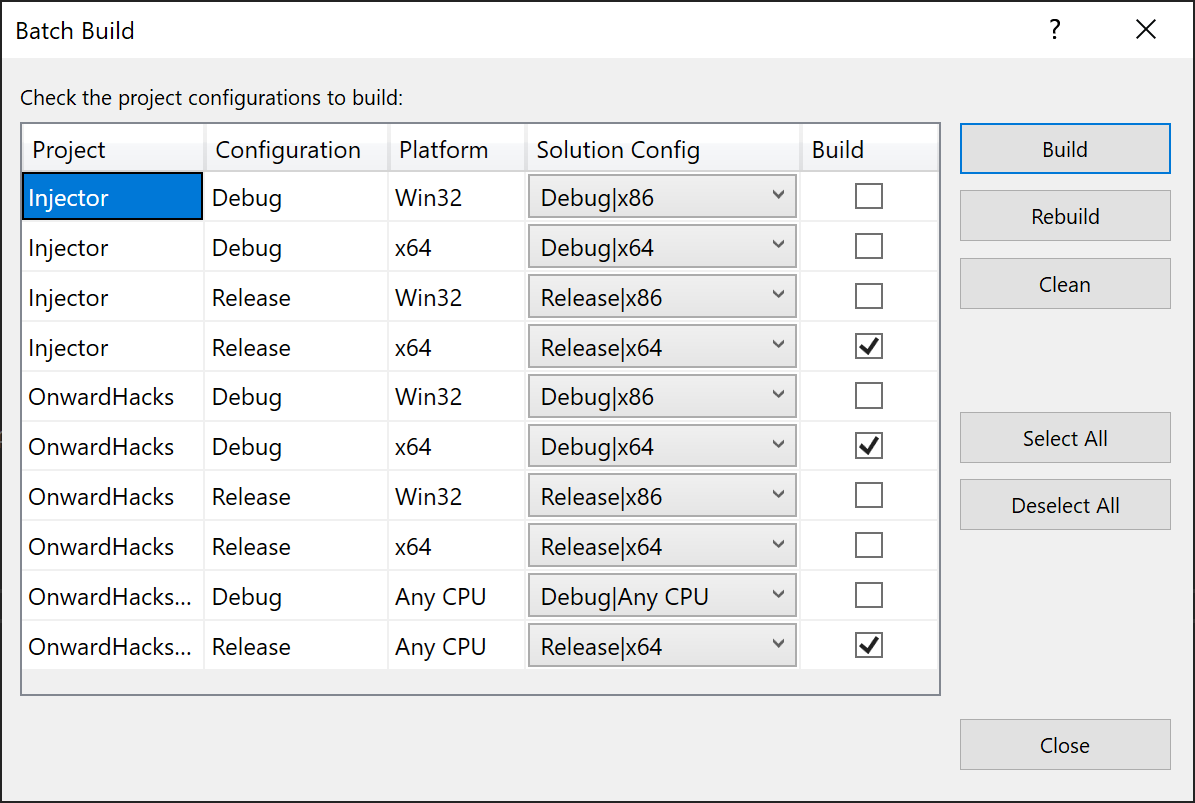
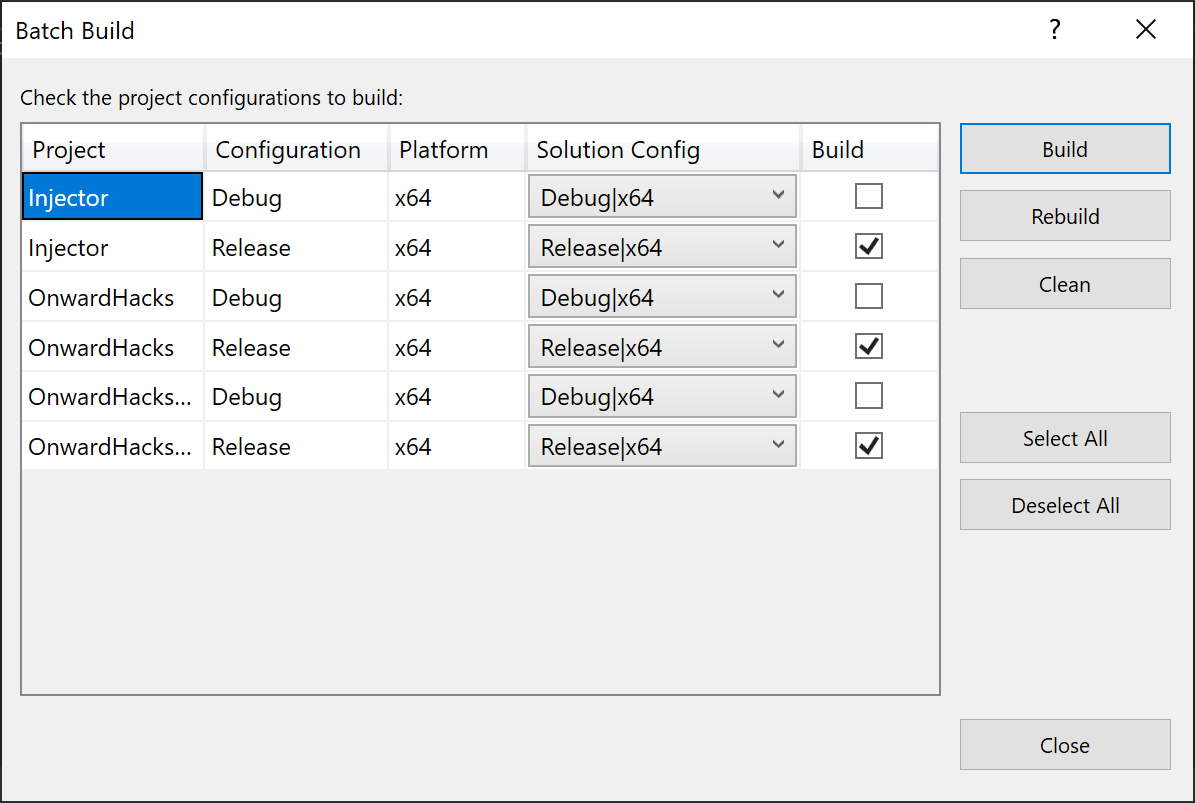
Removed all x86 and AnyCpu options Onward is a 64 bit game. Hacks will not compile for 32 bit cpus

diff --git a/README.md b/README.md
@@ -26,7 +26,7 @@
 2. Select Below Config Options (You only need to do this once)
 ![Config Option](BuildConfig.PNG)
 3. Click Build
-4. Copy Injector.dll and OnwardHacks.dll from x64/Release and x64/Debug folders respectively
+4. Copy Injector.dll and OnwardHacks.dll from x64/Release folder
 5. Paste in x64/Release/netcoreapp3.1
 5. Run OnwardHacksInjector.exe, log in to Dev account and select 2 to build OnwardHacksEncrypted.dll
 6. Close OnwardHacksInjector
@@ -36,7 +36,7 @@
 #### OnwardHacks
 1. Right click on OnwardHacks project
 2. Select "Set as Startup Project"
-3. On the top Select Debug and x64
+3. On the top Select Release and x64
 4. Click Build, Build, 2 OnwardHacks
 #### Injector
 1. Right click on Injector project
